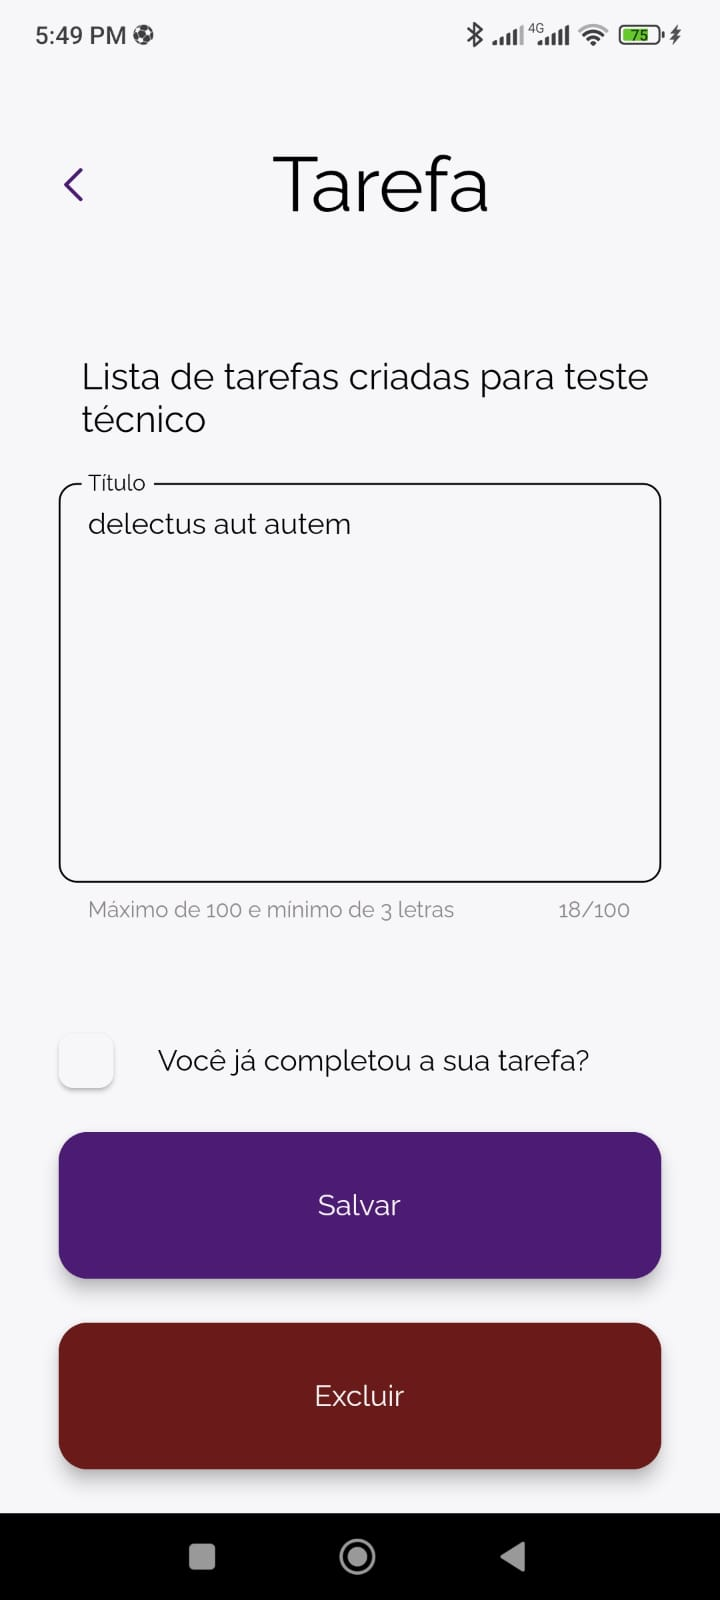
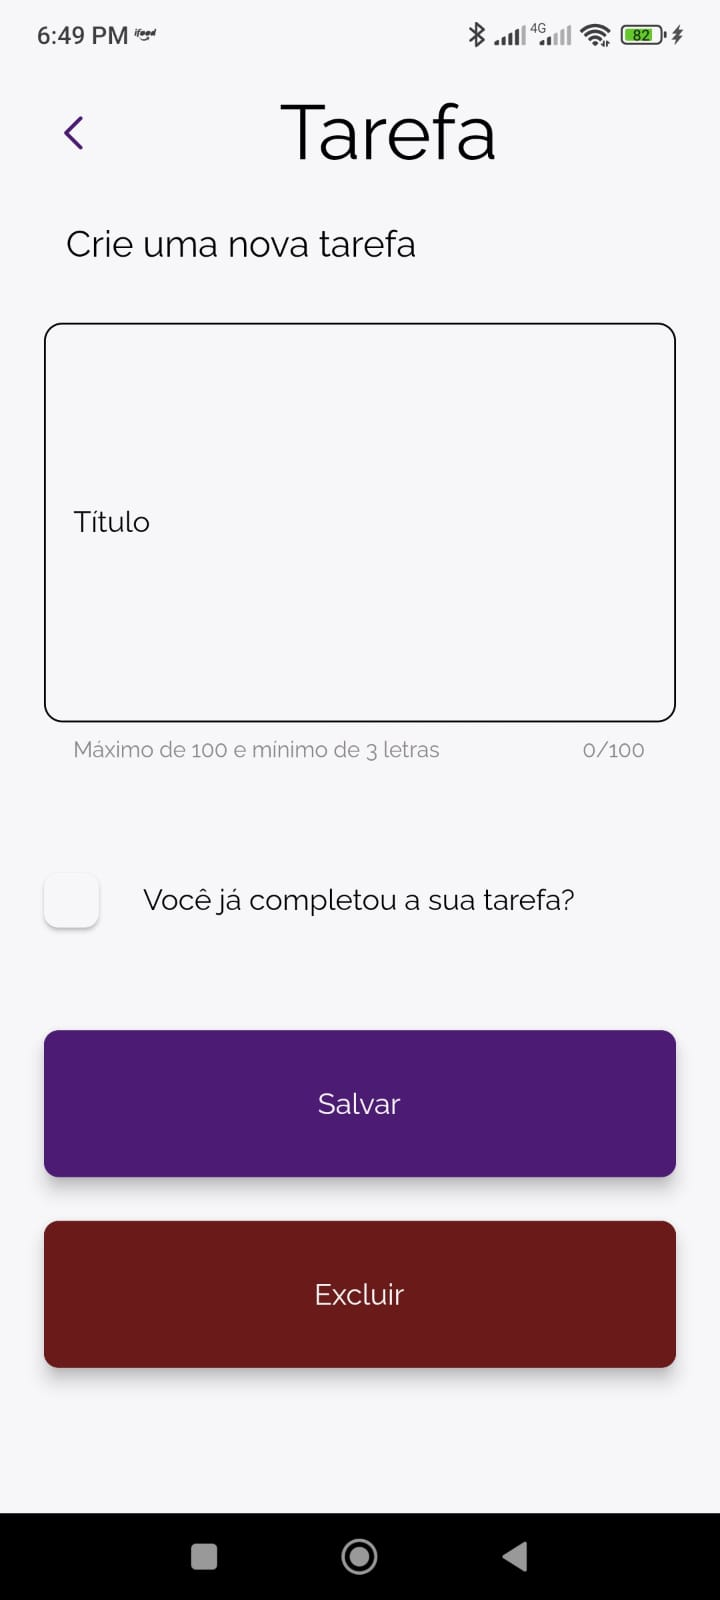
fix - Ajustado layout da página de uma tarefa

diff --git a/lib/app/src/modules/todo/presenter/pages/todo_page.dart b/lib/app/src/modules/todo/presenter/pages/todo_page.dart
@@ -34,18 +34,18 @@ class _TodoPageState extends State<TodoPage> {
     final todosBloc = GetIt.I.get<TodosBloc>();
     return Scaffold(
       backgroundColor: ThemeService.colors.white,
-      body: SingleChildScrollView(
+      body: Padding(
+        padding: const EdgeInsets.all(24.0),
         child: SizedBox(
           height: context.height,
-          child: Column(
-            mainAxisAlignment: MainAxisAlignment.spaceBetween,
-            mainAxisSize: MainAxisSize.max,
-            crossAxisAlignment: CrossAxisAlignment.stretch,
-            children: [
-              const SizedBox(height: 8),
-              Padding(
-                padding: const EdgeInsets.only(left: 16.0),
-                child: Row(
+          child: SingleChildScrollView(
+            child: Column(
+              mainAxisAlignment: MainAxisAlignment.start,
+              mainAxisSize: MainAxisSize.min,
+              crossAxisAlignment: CrossAxisAlignment.start,
+              children: [
+                const SizedBox(height: 24),
+                Row(
                   mainAxisAlignment: MainAxisAlignment.spaceBetween,
                   mainAxisSize: MainAxisSize.max,
                   children: [
@@ -54,46 +54,41 @@ class _TodoPageState extends State<TodoPage> {
                       ConstantsStrings.todo,
                       style: ThemeService.styles.ralewayTitle(),
                     ),
-                    const SizedBox(width: 40),
+                    const SizedBox(height: 40),
                   ],
                 ),
-              ),
-              Padding(
-                padding: const EdgeInsets.fromLTRB(32, 0, 32, 24),
-                child: Column(
+                const SizedBox(height: 24),
+                Column(
                   children: [
-                    Column(
-                      children: [
-                        Padding(
-                          padding: const EdgeInsets.only(left: 12.0),
-                          child: AutoSizeText(
-                            ConstantsStrings.todosSubtitle,
-                            style: ThemeService.styles.ralewaySubtitle(),
-                          ),
-                        ),
-                      ],
+                    Padding(
+                      padding: const EdgeInsets.only(left: 12.0),
+                      child: AutoSizeText(
+                        ConstantsStrings.todoSubtitle(widget.isEdit),
+                        style: ThemeService.styles.ralewaySubtitle(),
+                      ),
+                    ),
+                  ],
+                ),
+                const SizedBox(height: 32),
+                FormsTodos(todoBloc: todoBloc),
+                const SizedBox(height: 32),
+                Column(
+                  children: [
+                    SubmitTodoButton(
+                      isEdit: widget.isEdit,
+                      todoBloc: todoBloc,
+                      todosBloc: todosBloc,
                     ),
                     const SizedBox(height: 24),
-                    FormsTodos(todoBloc: todoBloc),
-                    Column(
-                      children: [
-                        SubmitTodoButton(
-                          isEdit: widget.isEdit,
-                          todoBloc: todoBloc,
-                          todosBloc: todosBloc,
-                        ),
-                        const SizedBox(height: 24),
-                        DeleteTodoButton(
-                          todoEntity: widget.todoEntity,
-                          todoBloc: todoBloc,
-                          todosBloc: todosBloc,
-                        ),
-                      ],
+                    DeleteTodoButton(
+                      todoEntity: widget.todoEntity,
+                      todoBloc: todoBloc,
+                      todosBloc: todosBloc,
                     ),
                   ],
-                ),
-              )
-            ],
+                )
+              ],
+            ),
           ),
         ),
       ),

diff --git a/lib/app/src/ui/components/molecules/ui_button.dart b/lib/app/src/ui/components/molecules/ui_button.dart
@@ -37,7 +37,7 @@ class UiButton extends StatelessWidget {
         child: DecoratedBox(
           decoration: BoxDecoration(
             color: buttonColor ?? ThemeService.colors.primary,
-            borderRadius: BorderRadius.circular(radius ?? 16),
+            borderRadius: BorderRadius.circular(radius ?? 8),
           ),
           child: ElevatedButton(
             onPressed: onPressed,
@@ -50,7 +50,7 @@ class UiButton extends StatelessWidget {
               ButtonStyle(
                   shape: MaterialStateProperty.all<RoundedRectangleBorder>(
                     RoundedRectangleBorder(
-                      borderRadius: BorderRadius.circular(radius ?? 16),
+                      borderRadius: BorderRadius.circular(radius ?? 8),
                       side: const BorderSide(color: Colors.transparent),
                     ),
                   ),

diff --git a/lib/app/src/modules/todo/presenter/pages/todos_page.dart b/lib/app/src/modules/todo/presenter/pages/todos_page.dart
@@ -20,7 +20,7 @@ class TodosPage extends StatelessWidget {
       body: Padding(
         padding: const EdgeInsets.all(24.0),
         child: SizedBox(
-          height: context.height * 1,
+          height: context.height,
           child: SingleChildScrollView(
             child: Column(
               mainAxisAlignment: MainAxisAlignment.start,
@@ -48,7 +48,8 @@ class TodosPage extends StatelessWidget {
         ),
       ),
       floatingActionButton: FloatingActionButton(
-        onPressed: () => context.push('/${ConstantsRoutes.todo}?isEdit=false'),
+        onPressed: () => context.push(
+            '${ConstantsRoutes.todos}/${ConstantsRoutes.todo}?isEdit=false'),
         backgroundColor: ThemeService.colors.white,
         child: Icon(Icons.add, size: 24, color: ThemeService.colors.primary),
       ),

diff --git a/lib/app/src/ui/components/atoms/ui_back_button.dart b/lib/app/src/ui/components/atoms/ui_back_button.dart
@@ -9,7 +9,7 @@ class UiBackButton extends StatelessWidget {
 
   @override
   Widget build(BuildContext context) {
-    return IconButton(
-        onPressed: () => context.pop(), icon: ThemeService.icons.backIcon);
+    return InkWell(
+        onTap: () => context.pop(), child: ThemeService.icons.backIcon);
   }
 }

diff --git a/changelog.md b/changelog.md
@@ -1,3 +1,9 @@
+## [2.0.2] - 16/04/2023
+
+### Fix
+
+- Ajustado layout da página de uma tarefa
+
 ## [2.0.1] - 16/04/2023
 
 ### Fix
